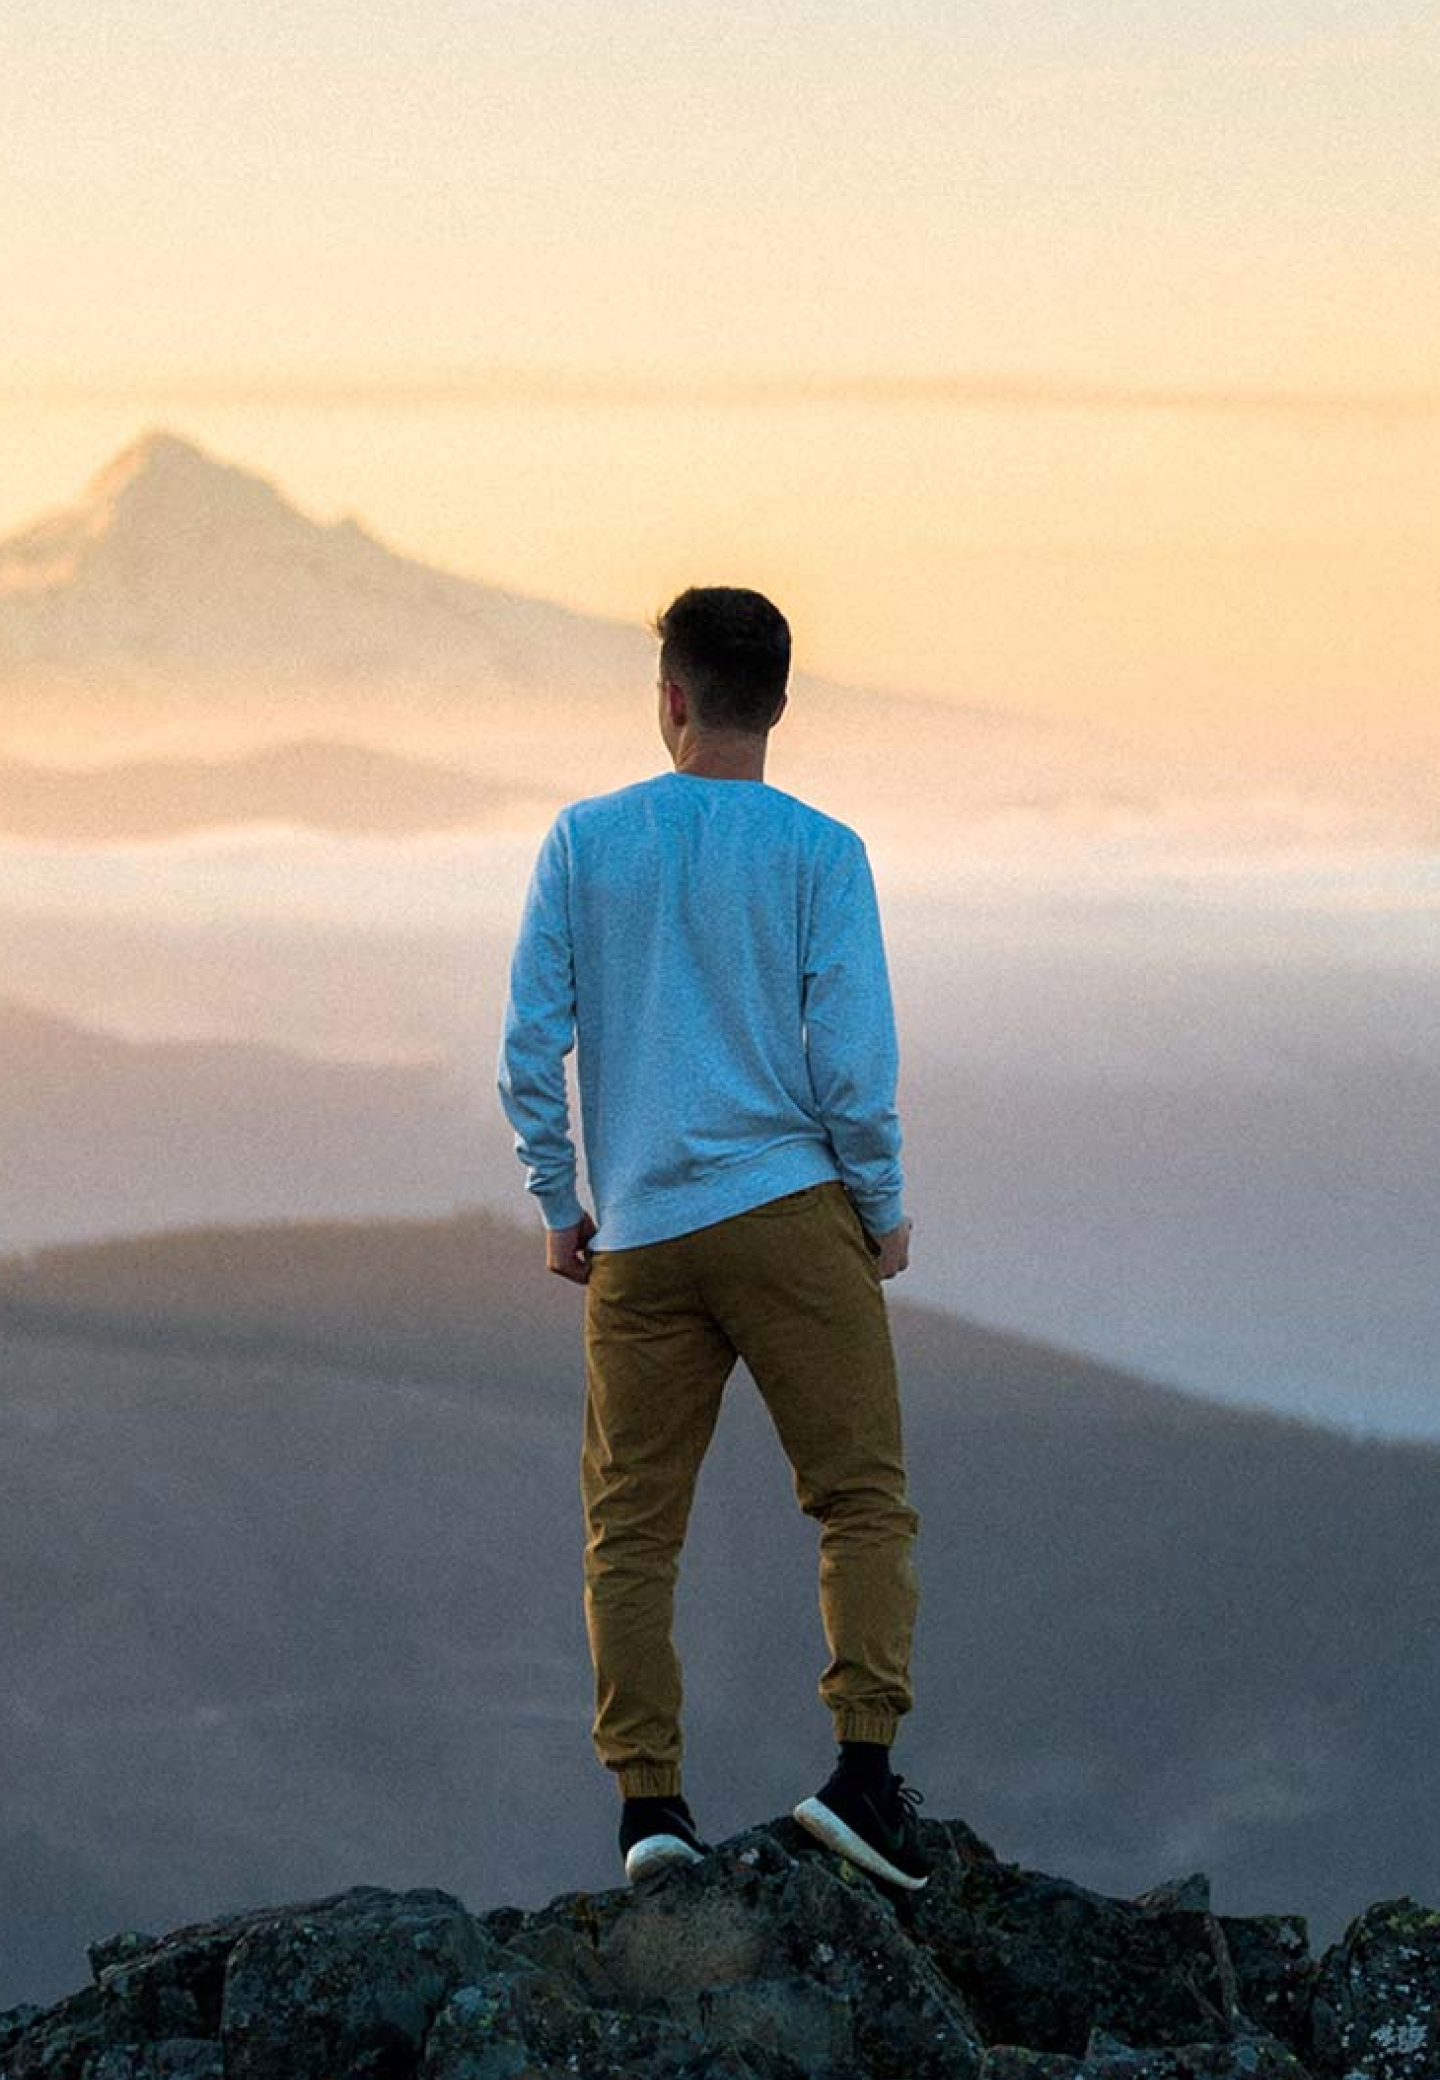
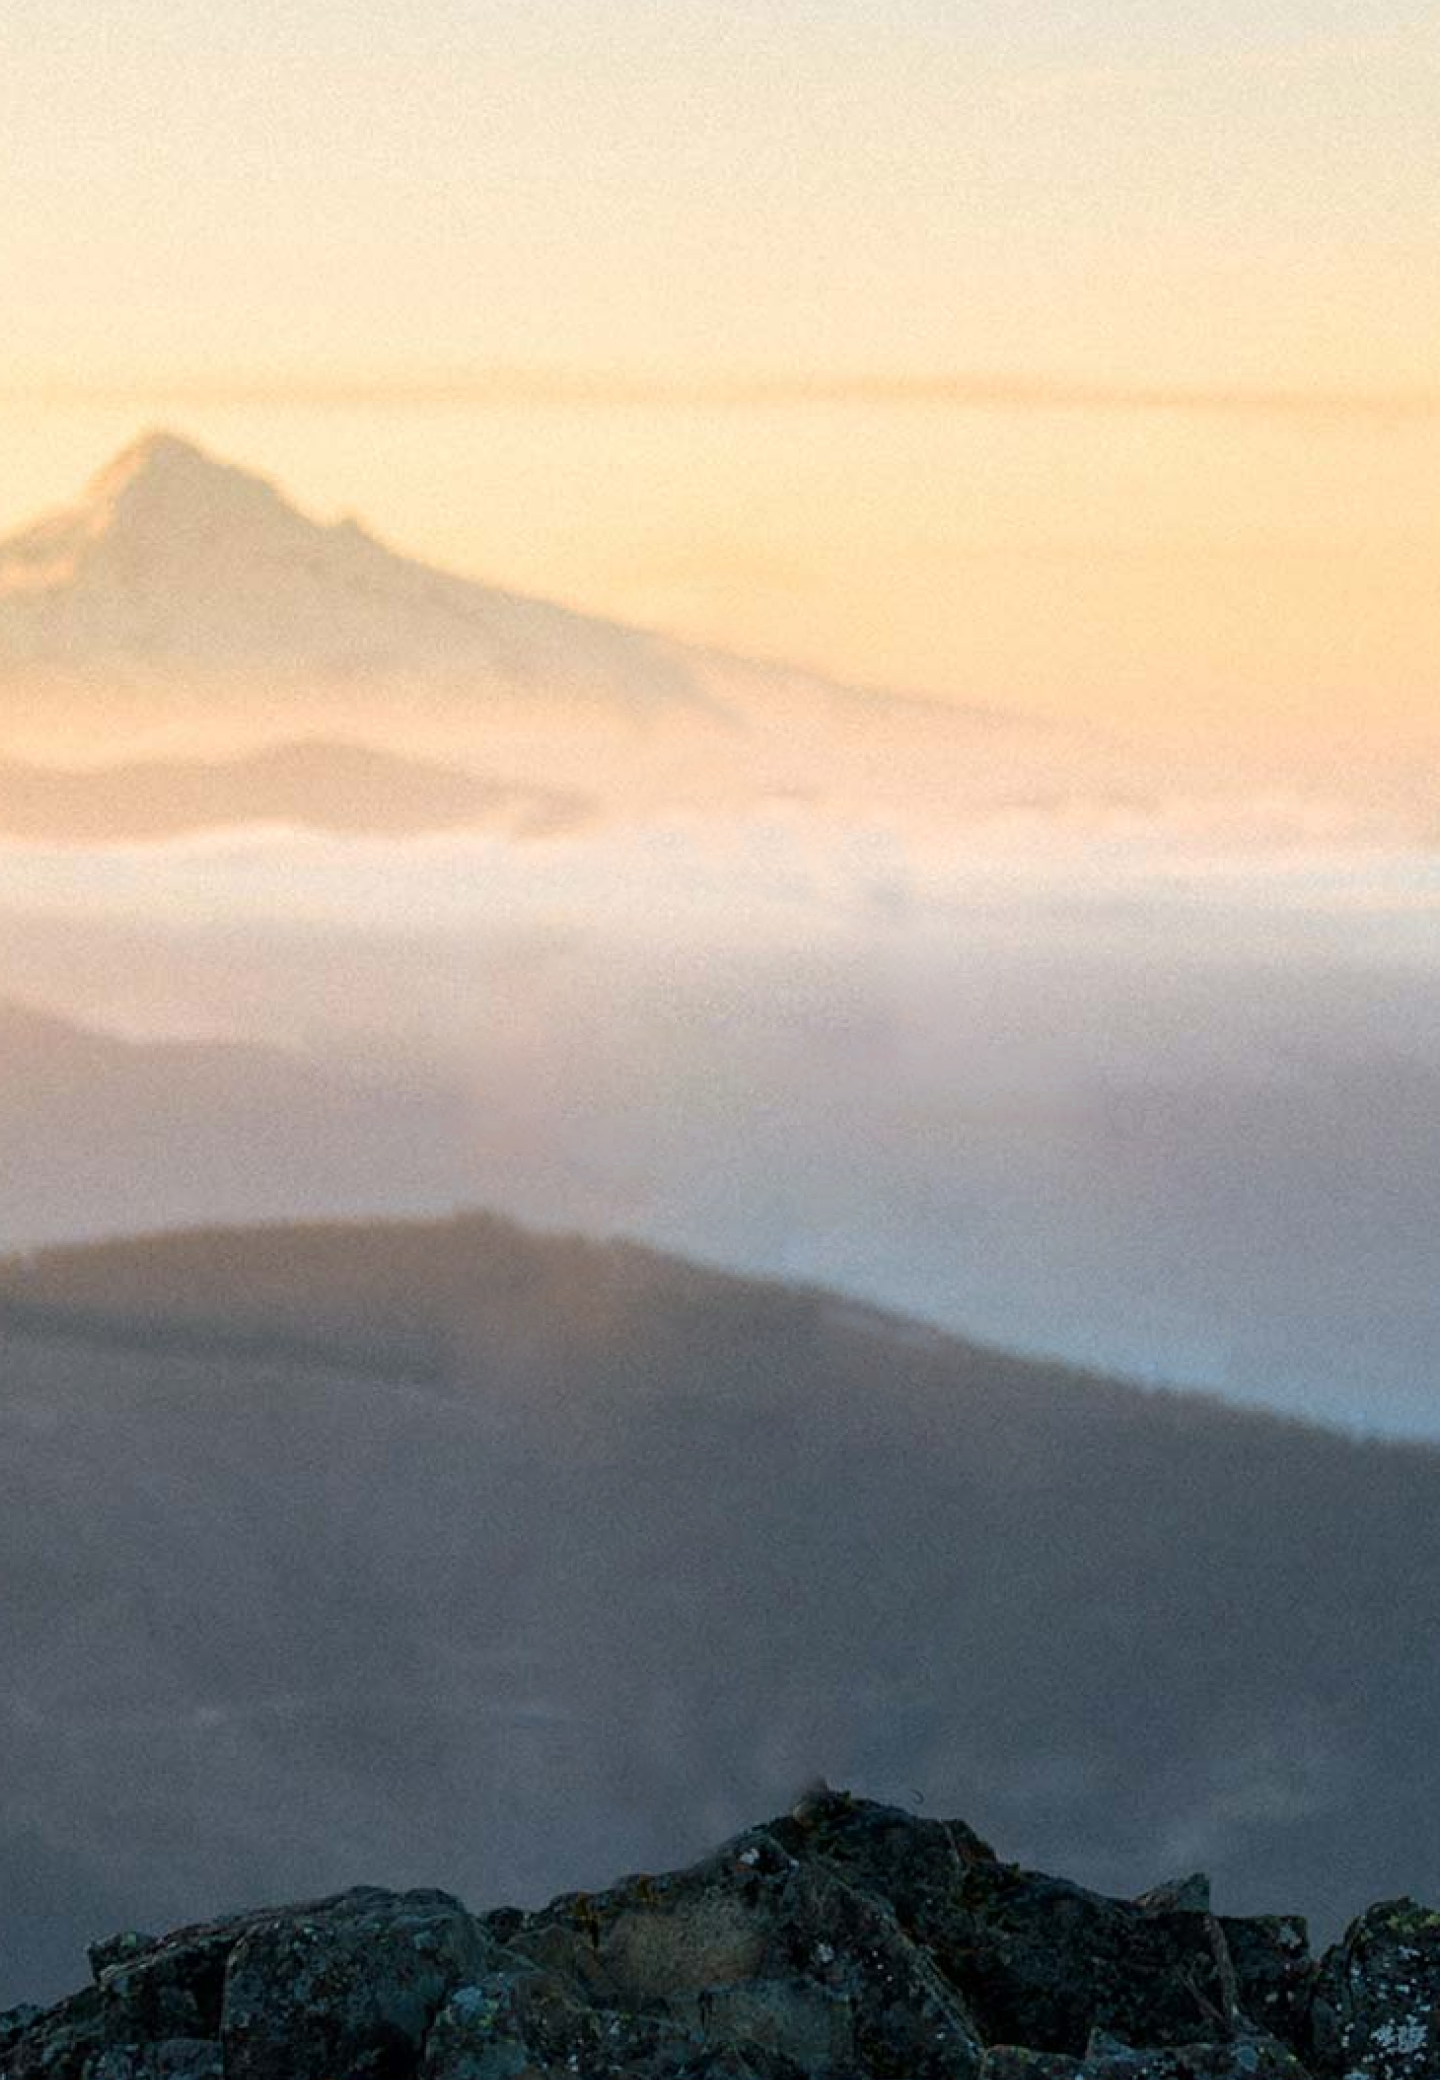
Изменила параметры макета под резиновую вёрстку

Changed region(s): [[0.3438, 0.2812, 0.8125, 0.9375]]

diff --git a/css/figma-grid.css b/css/figma-grid.css
@@ -1,11 +1,14 @@
 /*Шрифты*/
 @import url('https://fonts.googleapis.com/css2?family=Lato&family=Montserrat:wght@400;700&display=swap');
 
-/*.desktop * {
+/*
+body {
     border: 1px blue solid;
 }*/
+
 .desktop {
     max-width: 1440px;
+    min-width: 2px;
     margin: auto;
     min-height: 100vh;
     font-family: 'Montserrat', sans-serif;
@@ -26,7 +29,7 @@
     background-size: cover;
     color: #FFFFFF;
 
-    justify-content: stretch;
+    justify-content: center;
     justify-items: center;
     padding-bottom: 99px;
 
@@ -42,7 +45,7 @@
 
 
 header {
-    grid-column: content-start/content-end;
+    grid-column: body-start/body-end;
     align-self: end;
 }
 
@@ -67,22 +70,13 @@ header {
 
 nav {
     padding-top: 48px;
-    /*В Figma прописано 52px, 
-    PerfectPixel даёт только 48px. Где-то потеряно 4 px*/
-    padding-left: 104px;
-    grid-column: content-start/content-end;
-    justify-self: stretch;
+    grid-column: body-start/body-end;
 }
 
 .selected-nav {
     /*Класс для ссылки активной страницы*/
     padding: 0px 0px 14px 0px;
     border-bottom: 2px solid rgba(255, 255, 255, 0.3);
-}
-
-.link-extra-margin {
-    /*Класс с доп. полями для одного из эл-тов меню*/
-    margin-left: 22px;
 }
 
 nav a {
@@ -96,27 +90,33 @@ nav a {
 
 
 article {
-    height: 510px;
+    min-height: 510px;
     grid-column: content-start/content-end;
 
     /*Прописываю сетку внутри article*/
     display: grid;
-    grid-template-rows: [article-start] 160px [surname-start] 40px [headerline] 130px [article-content] 180px;
+    grid-template-rows: [article-start] 4fr [surname-start] 1fr [headerline] 3fr [article-content] 5fr;
 
-    grid-template-columns: 7.5fr [art-cont1] 82fr [art-cont2] 9.5fr;
+    grid-template-columns: 7fr [art-cont1] 80fr [art-cont2] 7fr;
 
+}
+
+article .surn img {
+    /*стили для картинки заголовка*/
+    object-fit: cover;
+    margin-right: 14px;
+    float: left;
 }
 
 article>img {
-    /*стили для картинки заголовка*/
-    max-width: 100%;
+    grid-column: 1/-1;
+    grid-row: 1/article-content;
+    width: 100%;
     height: 100%;
+
 }
 
 article img {
-
-    grid-column: 1/-1;
-    grid-row: 1/article-content;
     object-fit: cover;
     margin-right: 14px;
     float: left;
@@ -240,7 +240,7 @@ a.btn:visited {
     grid-template-columns: 1fr 1fr 1fr;
     grid-template-rows: 125px 83px 404px 176px 166px;
     justify-content: center;
-    gap: 20px;
+    gap: 5px;
     color: #333333
 }
 
@@ -280,8 +280,8 @@ a.btn:visited {
 }
 
 .pre-art {
-    width: 300px;
-    height: 269px;
+    max-width: 300px;
+    height: 270px;
     color: #FFFFFF;
     display: grid;
     grid-template-columns: 24px 1fr;
@@ -300,7 +300,7 @@ a.btn:visited {
     object-fit: cover;
 }
 
-.surn img {
+.pre-art .surn img {
     /*Стиль общий для всех картинок в блоке pre-art*/
     float: left;
     padding-right: 8px;

diff --git a/figma-grid.html b/figma-grid.html
@@ -33,7 +33,7 @@
                 <a href="#BLOG">BLOG</a>
                 <a href="#CATEGORIES">CATEGORIES</a>
                 <a href="#PICK">PICK CATEGORY</a>
-                <a href="#ABOUT" class="link-extra-margin">ABOUT US</a>
+                <a href="#ABOUT">ABOUT US</a>
                 <a href="#CONTACT">CONTACT US</a>
             </nav>
 
